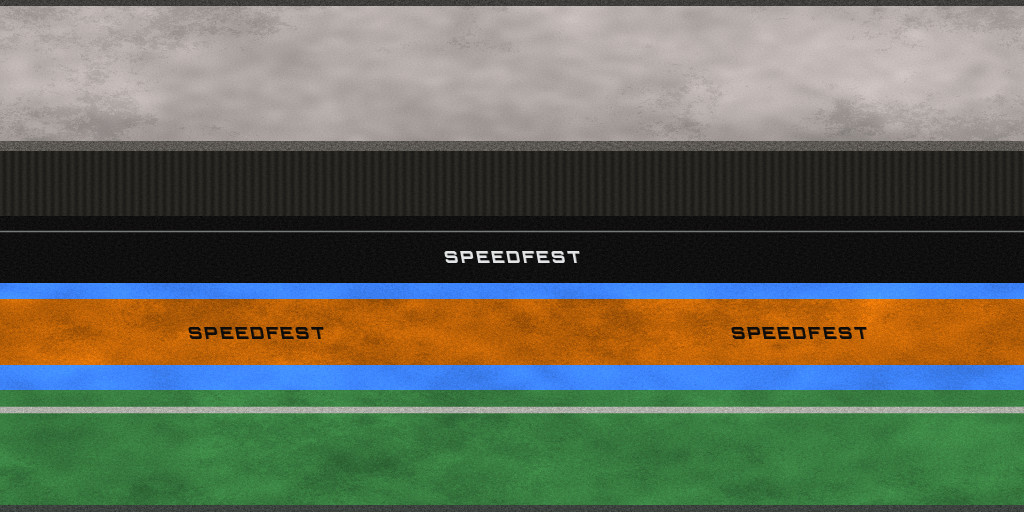
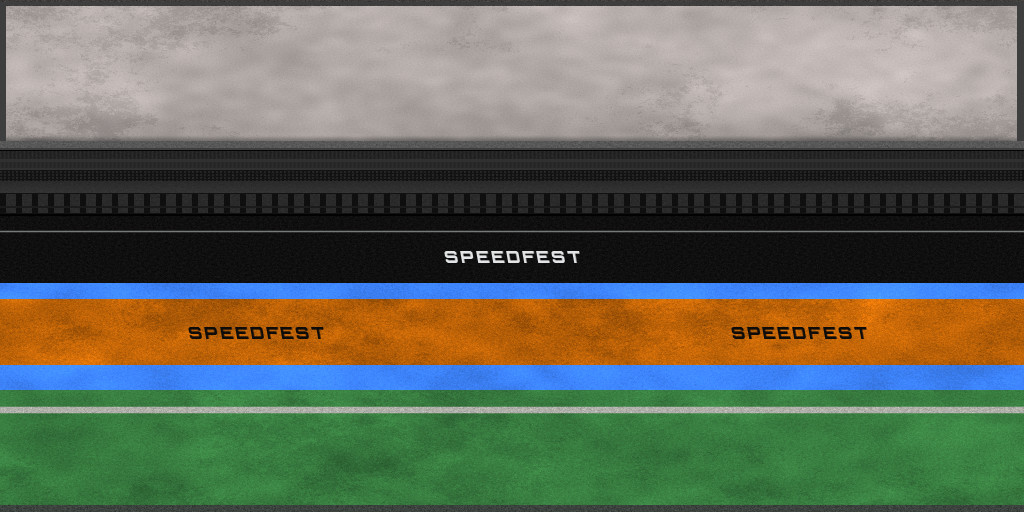
stadium: the road keel's plates and the border atlas' rails as TMNF's (M11-2)
The keel under every elevated road gets our drawing of TMNF's layout (a
dark bolted strip, three long light plates, a dark bolted strip; TMNF's
rows), the junctions' keel too. The border atlas' rows 141-215 follow
TMNF's structure (rails, a perforated grating, two bands of slotted teeth)
where ours were uniform ribs; the panel band gets TMNF's dark frame.

Claude-Session: https://claude.ai/code/session_01CoCjs3F2Nw6StPmuE9yD2C

Changed region(s): [[0.0, 0.0, 1.0, 0.3125], [0.0, 0.375, 1.0, 0.4375]]

diff --git a/stadium/tools/texgen/borders.py b/stadium/tools/texgen/borders.py
@@ -66,6 +66,48 @@ def border_atlas(name='border_atlas', seed=401):
         else:
             c = base * (1.0 + 0.1 * fine)[..., None]
         col = col * (1 - m[..., None]) + c * m[..., None]
+    # the rails between the panel and the black band (rows 141-215), laid out as TMNF's rows are
+    # (measured: grey levels and what varies along u; drawn here): a grey rail, a black line, a
+    # dark ribbed strip, a light rail, dark, a light line, a perforated grating, a wide light rail,
+    # a dark line, two bands of slotted teeth (16 px apart) either side of a dark line, black
+    def g(v):
+        return np.full(3, v / 255.0, np.float32)[None, None, :]
+    rib4 = 0.5 + 0.5 * np.cos(xx * 2 * np.pi / 4.0)
+    holes = ((xx % 4.0) < 2.0) & ((yy % 3.0) < 1.5)
+    slot = ((xx % 16.0) < 6.0).astype(np.float32)
+    RAILS = [
+        (141, 147, lambda: g(88) * (1.0 + 0.06 * fine)[..., None], 0.4, 0.6),
+        (148, 149, lambda: g(62) * np.ones((H, W, 1)), 0.3, 0.6),
+        (150, 150, lambda: g(4) * np.ones((H, W, 1)), -0.6, 0.9),
+        (151, 158, lambda: g(36) * (0.85 + 0.3 * rib4 + 0.05 * fine)[..., None], 0.0, 0.9),
+        (159, 161, lambda: g(48) * np.ones((H, W, 1)), 0.5, 0.5),
+        (162, 167, lambda: g(40) * (0.9 + 0.2 * rib4)[..., None], 0.1, 0.8),
+        (168, 169, lambda: g(48) * np.ones((H, W, 1)), 0.4, 0.5),
+        (170, 180, lambda: np.where(holes[..., None], g(36), g(19)) * (1.0 + 0.1 * fine)[..., None], -0.3, 0.85),
+        (181, 192, lambda: (g(42) + (g(51) - g(42)) * ((yy - 181) / 11.0)[..., None]) * (1.0 + 0.04 * fine)[..., None], 0.6, 0.45),
+        (193, 193, lambda: g(18) * np.ones((H, W, 1)), -0.4, 0.8),
+        (194, 205, lambda: lerp(g(42), g(15), slot[..., None]) * (1.0 + 0.06 * fine)[..., None], 0.2, 0.7),
+        (206, 207, lambda: g(27) * np.ones((H, W, 1)), -0.2, 0.8),
+        (208, 212, lambda: lerp(g(42), g(15), slot[..., None]) * (1.0 + 0.06 * fine)[..., None], 0.2, 0.7),
+        (213, 213, lambda: g(18) * np.ones((H, W, 1)), -0.4, 0.8),
+        (214, 215, lambda: g(2) * np.ones((H, W, 1)), -0.6, 0.9),
+    ]
+    for r0, r1, paint, height, rgh in RAILS:
+        m = ((yy >= r0) & (yy <= r1)).astype(np.float32)
+        col = col * (1 - m[..., None]) + paint() * m[..., None]
+        hgt = hgt * (1 - m) + m * height
+        rough = np.where(m > 0, rgh, rough)
+    teeth = (((yy >= 194) & (yy <= 205)) | ((yy >= 208) & (yy <= 212))).astype(np.float32)
+    hgt -= teeth * slot * 0.5
+    # the panel's dark frame (TMNF's: 4 px at its top, 6 at the tile's ends) and its shading into
+    # the rail below
+    pm = ((yy >= 2) & (yy <= 140)).astype(np.float32)
+    frame = np.maximum(((yy >= 2) & (yy <= 4)).astype(np.float32),
+                       ((xx <= 5) | (xx >= W - 7)).astype(np.float32)) * pm
+    col = lerp(col, g(62) * np.ones((H, W, 1)), frame[..., None])
+    shade = smoothstep(134.0, 141.0, yy) * pm * (1 - frame)
+    col *= (1.0 - 0.3 * shade)[..., None]
+    hgt -= 0.5 * frame
     # our emblem: white on the black band, black twice on the orange band
     f = font('orbitron-latin-900-normal', 17)
     logo_b = text_mask(W, H, 'SPEEDFEST', f, (W * 0.5, 256), italic=-0.18, tracking=2)

diff --git a/stadium/tools/texgen/decks.py b/stadium/tools/texgen/decks.py
@@ -164,6 +164,40 @@ def road_under(name='road_under', ppm=64, size_u=8.0, size_v=4.0, seed=301, base
     save(name, np.clip(col, 0, 1), nrm, orm)
 
 
+def road_keel(name='road_keel', w=512, h=512, seed=307):
+    """The road keel's sloped underside in TMNF's layout (UV-mapped: u along the road, 16 m a tile;
+    v the rows of 512 from the keel's outer edge, 0, to the dark middle strip, 288): a dark
+    bolted strip, three long light steel plates (16 m, the joints at the tile's ends) with bolts
+    at their corners and middles and dirt streaks along them, a dark bolted strip; below 288
+    (unused) dark."""
+    yy, xx = np.mgrid[0:h, 0:w].astype(np.float32)
+    mott = fbm(w, h, seed, beta=2.4, lo=1.0, hi=10.0)
+    fine = fbm(w, h, seed + 1, beta=0.7, lo=64.0)
+    streak = np.clip(fbm(w, h, seed + 2, beta=1.2, lo=2.0) * 0.6 + 0.4 * fbm(w, h, seed + 3, beta=2.0, lo=1.0), 0, 1)
+    streak = smoothstep(0.55, 0.95, blur(streak, 0.8))
+    plates = [(29.0, 103.0), (107.0, 181.0), (185.0, 259.5)]
+    plate = np.zeros((h, w), np.float32)
+    for r0, r1 in plates:
+        plate = np.maximum(plate, rect_mask(w, h, 3, r0 + 1, w - 3, r1 - 1, 1.5))
+    dark = srgb((42, 41, 40))[None, None, :] * (1.0 + 0.06 * mott)[..., None]
+    light = srgb((182, 174, 170))[None, None, :] * ((1.0 + 0.04 * mott + 0.03 * fine) * (1.0 - 0.18 * streak))[..., None]
+    col = lerp(dark, light, plate[..., None])
+    bolt = np.zeros((h, w), np.float32)
+    # the strips' bolts every 64 px, the plates' at their ends and middles, top and bottom
+    for yc in (13.0, 274.0):
+        d = np.sqrt(((xx % 64.0) - 32.0) ** 2 + (yy - yc) ** 2)
+        bolt = np.maximum(bolt, 1.0 - smoothstep(4.0, 6.0, d))
+    for r0, r1 in plates:
+        for yc in (r0 + 6.0, r1 - 6.0):
+            for xc in (10.0, 256.0, w - 10.0):
+                d = np.sqrt((xx - xc) ** 2 + (yy - yc) ** 2)
+                bolt = np.maximum(bolt, 1.0 - smoothstep(2.5, 4.0, d))
+    col = lerp(col, srgb((70, 70, 72))[None, None, :], (0.85 * bolt)[..., None])
+    nrm = normal_from_height(0.15 * fine + 1.2 * plate + 0.8 * bolt, 0.45)
+    orm = np.stack([1.0 - 0.3 * (1.0 - plate), 0.55 + 0.05 * fine + 0.15 * streak, 0.3 * plate], -1)
+    save(name, np.clip(col, 0, 1), nrm, orm)
+
+
 def circuit_band(name='circuit_band', ppm=64, size_u=16.0, size_v=3.5, seed=291):
     """The blue band along the circuit walls' outside (UV-mapped; 3.5 m high): deep blue lighter
     toward its lower edge, a field of small lit squares fading in from below, our name in the
@@ -275,6 +309,7 @@ if __name__ == '__main__':
     circuit_panel()
     circuit_band()
     road_under()
+    road_keel()
     steel_truss()
     circuit_kerb()
     circuit_bumper()

diff --git a/docs/HANDOFF.md b/docs/HANDOFF.md
@@ -50,7 +50,8 @@
   lip turned round a notch) and truss undersides, the platform checkpoint's floodlight banks, the gate arches' word every 3.08 m, the inflatable
   billboard walls (banner cushions), the camera pubs' ends and roof strips, the road pubs' boards (ads outward only), the
   platform lip's atlas rows (and the ramp piece's orange bevel), the gate arches' top and underside
-  (TMNF's atlas strips), the sculptures' curb tops, the circuit walls' bumpers (atlas rows, outline).
+  (TMNF's atlas strips), the sculptures' curb tops, the circuit walls' bumpers (atlas rows, outline), the road keel's plates,
+  the border atlas' rail rows (structure as TMNF's).
   Side-by-side renders:
   `tests/block_view.tscn` (one shape; `--ref=<local ref dir>` shows TMNF's own look); numbers:
   `tests/block_dump.tscn` + `material_check.py --shape=<family> --detail` (it can't tell
@@ -59,10 +60,9 @@
   (m11_check "Survey by use": every shape our tracks build, with counts, not the catalogue's base
   forms). Left: the grandstand straights' lattice (flat cards in TMNF), the grandstand pillar
   piece, the snow / palm trees (organic), the circuit border's back (TMNF's Stands2 panels; ours
-  an X truss) and its ledge's stripes, TMNF's additive glow cards (ours: lit lamps), the road straight's
-  underside details, the hill pieces'
-  fabric awnings, the sculptures' borders; the gates' big sign panels stay out (owner's option B); then PLAN M11-3,
-  5..7.
+  an X truss) and its ledge's stripes, TMNF's additive glow cards (ours: lit lamps), the loops'
+  backs, the hill pieces' fabric awnings; the gates' big sign panels stay out (owner's option B);
+  then PLAN M11-3, 5..7. Tools: `material_check.py` (colours) and `atlas_rows.py` (atlas rows).
 - Continue on `stadium`. Open (owner's calls): TMNF's padlocks on later campaign tracks, the
   engine's layers' pitch curves, the rest of TMNF's wheelie (on flat ground ours now lifts its
   nose more than TMNF's: 19.1 s of the ghost_fit ground windows against 5.9).

diff --git a/docs/PROGRESS.md b/docs/PROGRESS.md
@@ -2871,4 +2871,15 @@ on every real contact the full impulse would land at the contact point and kick 
   the black band down its rounded nose to the blue line); ours were flat dark rubber keys on a
   coarser outline. Now TMNF's rows on both, the ledge bumper on TMNF's measured outline; the
   collision fidelity rose with it (diagonals 97.7 -> 100%, inner corners 98.1 -> 99.0%, curves +0.3-0.6).
+- (M11-2) **The road keel's plates and the border atlas' rails as TMNF's** (`texgen/decks.py
+  road_keel`, `road.gd HALF_AIR` and `_junction_keel`; `texgen/borders.py`). Under every elevated
+  road TMNF's keel shows rows 0-288 of its details texture across each half: a dark bolted strip,
+  three long light plates (16 m, joints only at the tile's ends), a dark bolted strip; ours was a
+  staggered grey plate pattern. Our own drawing of that layout now, mapped by TMNF's rows (the
+  junctions' revolved keel too). And the border atlas' rows 141-215, on curb sides, platform
+  lips, the keel's middle strip, the arches and the circuit bumpers, were one uniform rib pattern
+  where TMNF's has structure (measured row by row): a grey rail, a black line, a ribbed strip,
+  light rails, a perforated grating, a wide rail, two bands of slotted teeth 16 px apart. Redrawn
+  so (ours), and the panel band (the curbs' tops) gets TMNF's dark frame and its shading into
+  the rail.
 

diff --git a/docs/research/m11_check.md b/docs/research/m11_check.md
@@ -175,6 +175,10 @@ Not real: EditorHelpers, light glows (WarpSpotsGlow).
 - The circuit walls' bumpers (21 Oct): TMNF's atlas rows on the foot and ledge bumpers, the ledge
   bumper on TMNF's outline (atlas_rows: 0 rows off; "(none)" left where our outline still
   differs: the cap's trim and truss).
+- The road keel's plates (21 Oct; TMNF's details rows 0-288 across each half) and the border
+  atlas' rail rows 141-215 (TMNF's: rails, grating, slotted teeth; ours were uniform ribs), the
+  panel band's frame. Compare atlases region by region (same rows): a uniform band in ours where
+  TMNF's has structure won't show in mean colours.
 - Survey by use (20 Oct, late): list every shape our tracks build (`TmTracks` challenges through
   `TmBlockCatalogue.shape_name`, with counts), dump those and weight each shape's missing and
   differing area by its count. The catalogue's "uses" are per block (its base form), so forms a
